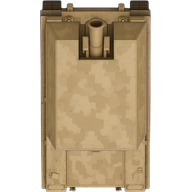
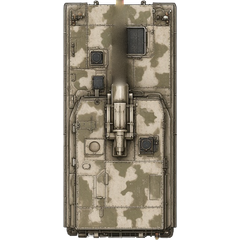
feat(assets): PzH 2000-style howitzer with rear turret and weathered sand camouflage

diff --git a/src/rendering/howitzerImageRenderer.js b/src/rendering/howitzerImageRenderer.js
@@ -1,6 +1,5 @@
 // howitzerImageRenderer.js - render howitzers with articulated barrel animation
 import {
-  TILE_SIZE,
   RECOIL_DISTANCE,
   RECOIL_DURATION,
   MUZZLE_FLASH_DURATION,
@@ -20,10 +19,11 @@ let howitzerLoaded = false
 let howitzerLoading = false
 const pendingCallbacks = []
 
-const HOWITZER_BARREL_MOUNT = { x: 96.2, y: 18.8 }
-let BARREL_MOUNT_POINT = { x: 11.5, y: 0 }
-let barrelMuzzlePoint = { x: 11.5, y: 152 }
+const HOWITZER_BARREL_MOUNT = { x: 119.7, y: 86.3 }
+let BARREL_MOUNT_POINT = { x: 7, y: 0 }
+let barrelMuzzlePoint = { x: 7, y: 150 }
 const HOWITZER_RECOIL_MULTIPLIER = 1.4
+const HOWITZER_MAX_DIMENSION = 38 // keep in sync with scripts/build-prepared-sprites.mjs
 
 function resolveCallbacks(success) {
   while (pendingCallbacks.length) {
@@ -77,7 +77,7 @@ export function preloadHowitzerImage(callback) {
   howitzerBarrelImg = new Image()
   howitzerBarrelImg.onload = () => {
     BARREL_MOUNT_POINT = {
-      x: 11.5,
+      x: 7,
       y: 0
     }
     barrelMuzzlePoint = {
@@ -114,7 +114,7 @@ export function renderHowitzerWithImage(ctx, unit, centerX, centerY) {
   const baseSourceHeight = preparedBase?.sourceHeight || howitzerBaseImg.height
   const baseScale = preparedBase
     ? preparedBase.logicalWidth / baseSourceWidth
-    : TILE_SIZE / Math.max(baseSourceWidth, baseSourceHeight)
+    : HOWITZER_MAX_DIMENSION / Math.max(baseSourceWidth, baseSourceHeight)
   if (preparedBase) {
     drawPreparedSpriteCentered(ctx, preparedBase, 0, 0)
   } else {

diff --git a/docs/asset-sources/howitzer-build.py b/docs/asset-sources/howitzer-build.py
@@ -1,72 +1,60 @@
-# Howitzer sprite build (desert art): chroma-key the blue Grok Imagine sheet (hull | turret | barrel),
-# slightly soften the camouflage contrast, compose the fixed turret onto the hull ring, widen the
-# footprint a little, rotate the base 180deg (renderer convention: howitzer base front points UP),
-# flip the barrel to muzzle-down and crop its breech/cradle, then save
-# public/images/map/units/howitzer_map.webp + howitzer_barrel.webp. Run from the repo root.
+# Howitzer sprite build (PzH 2000-style art, turret at the rear, gun pointing forward).
+# Source: docs/asset-sources/howitzer-pzh-source.jpg (single top-down Grok Imagine render, front up,
+# white background). Keys out the white, cuts the gun tube (muzzle brake -> mantlet) into the barrel
+# layer, fills the hull under the tube by diffusion, keeps natural proportions (no stretch) and saves
+# public/images/map/units/howitzer_map.webp (front up) + howitzer_barrel.webp (muzzle down).
+# Run from the repo root.
 from PIL import Image
-import numpy as np, json, sys
+import numpy as np, json
 from scipy import ndimage
-SRC='docs/asset-sources/howitzer-desert-spritesheet.jpg'
-K=0.85          # luminance contrast factor (1 = unchanged)
-WIDEN=1.12      # horizontal footprint factor applied to hull+turret and barrel width
-BASE_H=192      # base source height (>= 2x the 3x prepared size of 96 px)
-im=np.asarray(Image.open(SRC).convert('RGB')).astype(float)
-bg=np.median(np.concatenate([im[:20].reshape(-1,3),im[-20:].reshape(-1,3)]),0)
-r,g,b=im[...,0],im[...,1],im[...,2]
-blue=b-np.maximum(r,g); bgblue=bg[2]-max(bg[0],bg[1])
-a=np.clip((bgblue*0.85-blue)/(bgblue*0.6),0,1)
-mask=ndimage.binary_opening(a>0.5,iterations=2)
-lab,n=ndimage.label(mask); sizes=ndimage.sum(mask,lab,range(1,n+1))
-big=[i+1 for i in np.argsort(sizes)[::-1][:3]]
-objs=sorted([(ndimage.find_objects((lab==i).astype(int))[0],i) for i in big],key=lambda t:t[0][1].start)
-parts={}
-for name,(sl,i) in zip(['hull','turret','barrel'],objs):
-  comp=lab==i
-  holes=np.zeros_like(comp)
-  if name!='hull':   # turret bore / barrel muzzle-brake openings: fill with dark paint
-    filled=ndimage.binary_fill_holes(comp); holes=ndimage.binary_dilation(filled&~comp,iterations=1)&filled; comp=filled
-  comp=ndimage.binary_dilation(comp,iterations=2)
-  al=np.where(comp,a,0); al=np.where(ndimage.binary_erosion(comp,iterations=3),1.0,al)
-  aa=np.clip(al,0.05,1)[...,None]
-  rgb=np.where((al<0.999)[...,None],(im-(1-aa)*bg)/aa,im).clip(0,255)
-  rgb[...,1]=np.minimum(rgb[...,1],rgb[...,0]+4)
-  rgb[...,2]=np.minimum(rgb[...,2],rgb[...,1]*0.85+6)      # despill for tan paint
-  if holes.any(): rgb[holes]=[48,42,32]; al=np.where(holes,1.0,al)
-  ys,xs=np.where(al>0.02); y0,y1,x0,x1=ys.min(),ys.max()+1,xs.min(),xs.max()+1
-  rgb,al=rgb[y0:y1,x0:x1],al[y0:y1,x0:x1]
-  lum=rgb@[0.299,0.587,0.114]; m=lum[al>0.9].mean()
-  rgb=(rgb*(((m+(lum-m)*K)+1)/(lum+1))[...,None]).clip(0,255)
-  parts[name]=(rgb,al)
-def img(rgb,al): return Image.fromarray(np.dstack([rgb,al*255]).clip(0,255).astype(np.uint8),'RGBA')
-hull=img(*parts['hull']); tur=img(*parts['turret'])
-# hull ring = largest dark (open ring interior) blob inside the hull
-hrgb,hal=parts['hull']; dark=((hrgb@[0.299,0.587,0.114])<70)&ndimage.binary_erosion(hal>0.9,iterations=8)
-hl,_=ndimage.label(ndimage.binary_opening(dark,iterations=2)); hs=ndimage.sum(dark,hl,range(1,hl.max()+1)); ry,rx=ndimage.center_of_mass(hl==np.argmax(hs)+1)
-print('ring',round(rx),round(ry),'hull',hal.shape[::-1])
-tw,th=tur.size
-canvas=hull.copy(); tx,ty=int(round(rx-tw/2)),int(round(ry-th*0.45)); canvas.alpha_composite(tur,(tx,ty))
-# mantlet / gun stub tip: lowest opaque row in the turret's centre columns
-tm=parts['turret'][1]>0.5; col=tm[:,tw//2-4:tw//2+4].any(1); stub_y=ty+np.where(col)[0].max(); stub_x=tx+tw/2
-W,H=canvas.size
-base=canvas.rotate(180)
-mount=(W-stub_x, H-stub_y+2)             # just inside the stub tip
-f=BASE_H/H; bw=round(W*f*WIDEN)
-base=base.resize((bw,BASE_H),Image.LANCZOS)
-sq=Image.new('RGBA',(BASE_H,BASE_H),(0,0,0,0)); pad=(BASE_H-bw)//2; sq.alpha_composite(base,(pad,0))
-# barrel: muzzle brake at top in the sheet -> flip to muzzle down; crop breech/cradle (now at top)
-bar=img(*parts['barrel']).transpose(Image.FLIP_TOP_BOTTOM)
-ba=np.asarray(bar)[...,3]>128; widths=ba.sum(1); bh=len(widths)
-tube=np.median(widths[int(bh*0.35):int(bh*0.6)])
-crop=0
-for y in range(int(bh*0.6)):                  # last wide (cradle) row in the upper part
-  if widths[y]>tube*1.6: crop=y+1
-bar=bar.crop((0,crop,bar.width,bh))
-bar=bar.resize((max(6,round(bar.width*f*WIDEN)),round(bar.height*f)),Image.LANCZOS)
-# trim transparent columns
-bb=bar.getchannel('A').getbbox(); bar=bar.crop((bb[0],0,bb[2],bar.height))
-sq.save('public/images/map/units/howitzer_map.webp',lossless=True)
-bar.save('public/images/map/units/howitzer_barrel.webp',lossless=True)
-vb=sq.getchannel('A').point(lambda v:255 if v>40 else 0).getbbox()
-print(json.dumps({'base':sq.size,'vehicle_px':[vb[2]-vb[0],vb[3]-vb[1]],'css_w':round((vb[2]-vb[0])/BASE_H*32,1),
-  'barrel':bar.size,'cradle_crop_px':crop,'mount':[round(mount[0]*f*WIDEN+pad - (W*f*WIDEN-bw)/2,1),round(mount[1]*f,1)],
-  'barrelMount':[round(bar.width/2,1),0],'muzzle':[round(bar.width/2,1),bar.height]}))
+SRC = 'docs/asset-sources/howitzer-pzh-source.jpg'
+CX = 639.5            # gun axis (source px)
+CUT_Y = 345           # barrel layer ends here (top of the mantlet / trunnion = pivot)
+HULL_Y0 = 154         # first hull row (stowage bumps)
+BASE_H = 240          # source canvas height (>= 2x the 3x prepared hull height)
+im = np.asarray(Image.open(SRC).convert('RGB')).astype(float)
+H, W, _ = im.shape
+d = 255 - im.min(2)
+a = np.clip((d - 10) / 35, 0, 1)
+solid = ndimage.binary_fill_holes(ndimage.binary_opening(a > 0.5, iterations=1))
+lab, n = ndimage.label(solid)
+keep = lab == (np.argmax(ndimage.sum(solid, lab, range(1, n + 1))) + 1)
+a = np.where(ndimage.binary_erosion(keep, iterations=2), 1.0, np.where(ndimage.binary_dilation(keep, iterations=2), a, 0))
+aa = np.clip(a, 0.05, 1)[..., None]
+rgb = ((im - (1 - aa) * 255) / aa).clip(0, 255)
+# gun tube mask (soft 1px edge): thin tube + brake above y=212, recuperator/cradle sleeve below
+yy, xx = np.mgrid[0:H, 0:W]
+hw = np.where(yy < 212, 10.0, 15.0)
+tube = np.clip(hw + 0.5 - np.abs(xx + 0.5 - CX), 0, 1) * (yy < CUT_Y)
+tube[:HULL_Y0] = np.where(np.abs(xx[:HULL_Y0] + 0.5 - CX) < 16, 1, 0)   # above hull: alpha decides
+bar_a = a * tube
+# hull: remove tube, diffuse-fill colour from neighbours
+hull_a = np.where(yy < HULL_Y0, 0, a)
+hole = (tube > 0) & (yy >= HULL_Y0) & (hull_a > 0.5)
+fill = rgb.copy(); known = ~hole
+for _ in range(400):
+    blur = ndimage.uniform_filter(fill * known[..., None], (5, 5, 1))
+    wgt = ndimage.uniform_filter(known.astype(float), 5)[..., None]
+    upd = hole & (wgt[..., 0] > 0.05)
+    fill[upd] = (blur / np.maximum(wgt, 1e-6))[upd]
+    if _ % 3 == 0: known = known | upd
+rng = np.random.default_rng(7)
+fill[hole] += rng.normal(0, 4, (hole.sum(), 1))
+def rgba(c, al): return Image.fromarray(np.dstack([c, al * 255]).clip(0, 255).astype(np.uint8), 'RGBA')
+hull = rgba(fill, hull_a); bar = rgba(rgb, bar_a)
+hb = hull.getchannel('A').point(lambda v: 255 if v > 20 else 0).getbbox()
+hull = hull.crop(hb); hw_, hh = hull.size
+f = BASE_H / hh
+hull = hull.resize((round(hw_ * f), BASE_H), Image.LANCZOS)
+sq = Image.new('RGBA', (BASE_H, BASE_H), (0, 0, 0, 0)); pad = (BASE_H - hull.width) // 2
+sq.alpha_composite(hull, (pad, 0))
+bb = bar.getchannel('A').point(lambda v: 255 if v > 20 else 0).getbbox()
+bar = bar.crop((bb[0], bb[1], bb[2], CUT_Y))
+mount_x_src = CX - hb[0]; mount_y_src = CUT_Y - hb[1]
+bar = bar.resize((round(bar.width * f), round(bar.height * f)), Image.LANCZOS).transpose(Image.FLIP_TOP_BOTTOM)
+sq.save('public/images/map/units/howitzer_map.webp', lossless=True)
+bar.save('public/images/map/units/howitzer_barrel.webp', lossless=True)
+bmx = round((CX - bb[0]) * f, 1)
+print(json.dumps({'base': sq.size, 'hull_px': hull.size, 'barrel': bar.size,
+  'barrelMountSource': [round(pad + mount_x_src * f, 1), round(mount_y_src * f, 1)],
+  'mountSource': [bmx, 0], 'muzzleSource': [bmx, bar.height]}))

diff --git a/docs/changes/2026-10-15-howitzer-retina-art.md b/docs/changes/2026-10-15-howitzer-retina-art.md
@@ -1,9 +1,9 @@
 # Howitzer retina art overhaul
 
-- New self-propelled howitzer map art generated with Grok Imagine (one sheet: wide hull with an empty turret ring, wide boxy turret, barrel), source in `docs/asset-sources/howitzer-desert-spritesheet.jpg`, prompt in `docs/asset-sources/howitzer-desert-prompt.txt`.
-- Desert sand paint with only a slight camouflage pattern; no green. The build script softens luminance contrast slightly (factor 0.85).
-- A first green woodland version was rejected (too narrow, wrong camouflage) and replaced before merge.
-- `docs/asset-sources/howitzer-build.py` keys out the blue background, composes the fixed turret onto the hull ring, widens the footprint by 12 % and rotates the base 180° losslessly to the renderer convention (front up). The barrel is flipped to muzzle-down and its breech/cradle section is cropped off.
-- On-map footprint: 18.5 × 32 CSS px (old sprite 17 × 32, rejected green version 15.8 × 32, tank V2 hull 22 × 32).
-- Sources: `howitzer_map.webp` 192×192, `howitzer_barrel.webp` 23×152. Prepared sprites only downscale: base 32/64/96 px, barrel 4×25 / 8×51 / 12×76 px for 1x/2x/3x.
-- Anchors re-measured: base barrel mount (96.2, 18.8) at the turret gun stub, barrel mount (11.5, 0), muzzle (11.5, 152).
+- New PzH 2000-style self-propelled howitzer map art generated with Grok Imagine (single top-down render, front up, white background), source in `docs/asset-sources/howitzer-pzh-source.jpg`.
+- Weathered sand camouflage with soft olive/light-sand blotches; turret at the rear of the hull, gun drawn on top pointing forward.
+- Earlier versions were rejected before merge: green woodland (too narrow) and a wide desert version (turret too far forward, artificially stretched 12 %).
+- `docs/asset-sources/howitzer-build.py` keys out the white background, cuts the gun tube (muzzle brake to mantlet) into the barrel layer, diffusion-fills the hull under the tube and keeps natural proportions (no stretch).
+- The hull is 1.2 tiles long (`HOWITZER_MAX_DIMENSION = 38` in the prepared-sprite script and renderer) so it keeps natural proportions at ~18 CSS px width: on-map footprint 18 × 38 CSS px (tank V2 hull 22 × 32).
+- Sources: `howitzer_map.webp` 240×240, `howitzer_barrel.webp` 14×150. Prepared sprites only downscale: base 38/76/114 px, barrel 2×24 / 4×48 / 7×71 px for 1x/2x/3x.
+- Anchors: base barrel mount (119.7, 86.3) at the rear trunnion/mantlet, barrel mount (7, 0), muzzle (7, 150).
